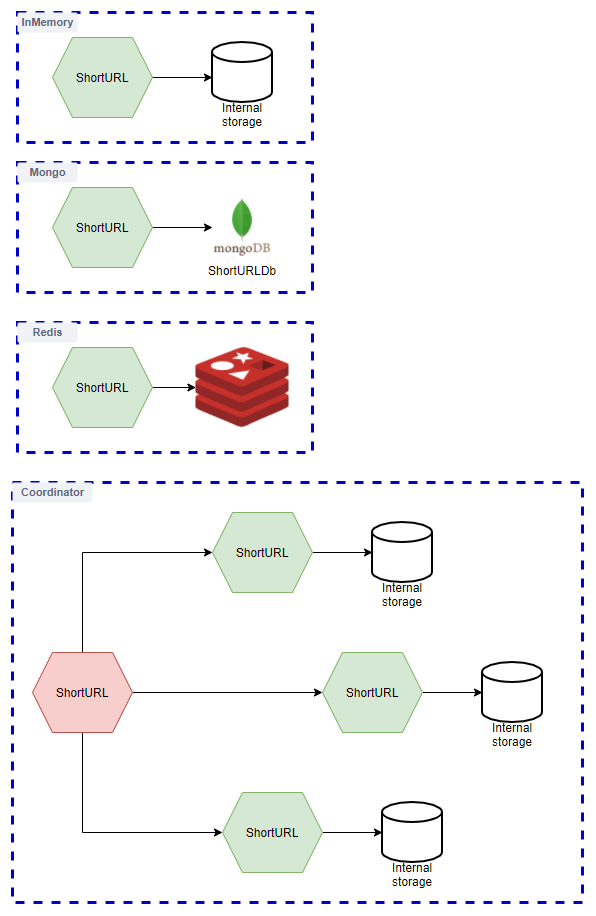
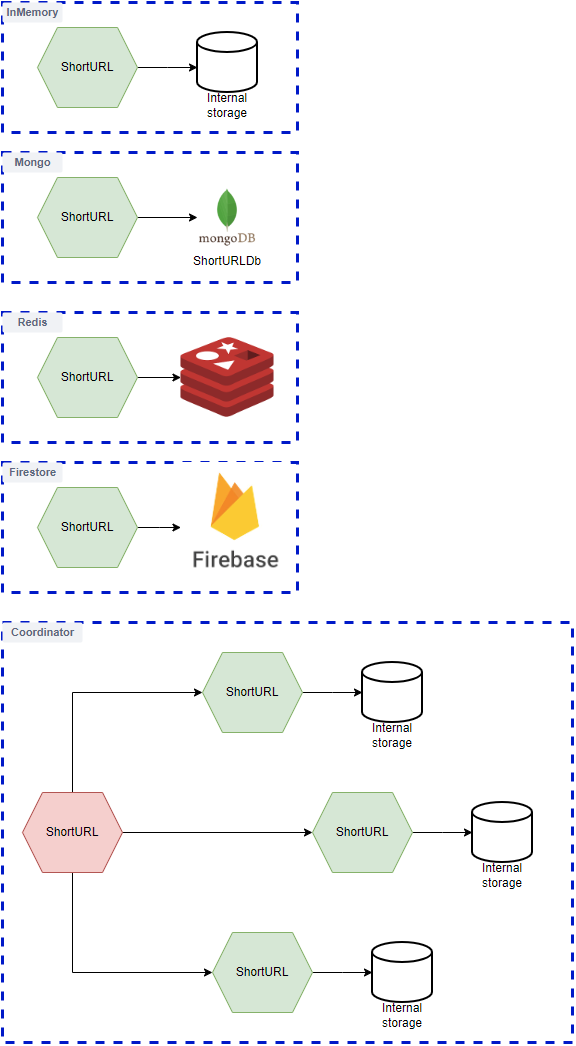
Update docs with firestore option.

Changed region(s): [[0.0, 0.0, 1.0, 1.0], [0.7812, 0.7031, 0.9375, 0.8559]]

diff --git a/src/main.rs b/src/main.rs
@@ -6,8 +6,13 @@ use services::hashservicefactory;
 
 #[actix_rt::main]
 async fn main() -> io::Result<()> {
-    env::set_var("RUST_LOG", "actix_web = debug, actix_server =info");
+    env::set_var("RUST_LOG", "debug, actix_server =info");
     env_logger::init();
+
+    // Print all environment variables.
+    for (key, value) in std::env::vars() {
+        println!("{key}: {value}");
+    }
     
     let settings_result: Result<Settings, config::ConfigError> = read_settings();
 
